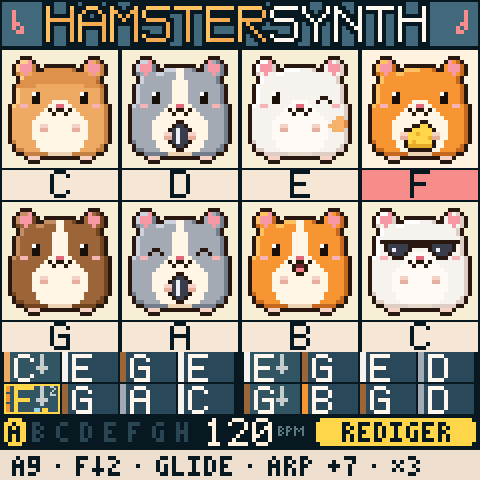
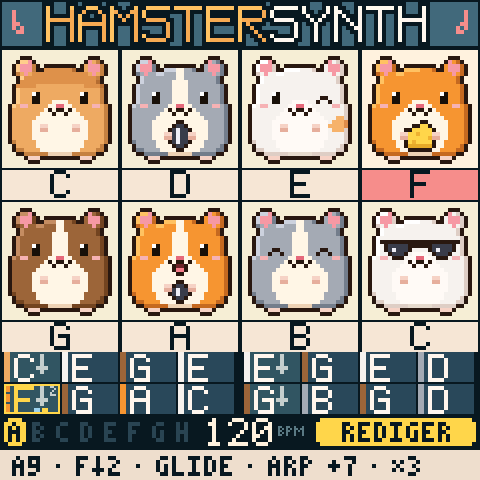
Record where it plays in EDIT too; A and B swap places, the seed goes to the orange one
While it plays, the keys now record into the step they are heard in
(the nearest), in EDIT as in REC. Before, EDIT while playing changed the
step the editor holds, which is right when stopped but not over a
running pattern. Stopped, EDIT is as it was. The bottom line says
"SPILL MED" while it plays. A new host test (tests/scripts/ham/
editplay.txt): EDIT, PLAY, two hamsters by hand, and the next round plays
them where they were heard, with the editor's step left alone.

The hamsters: A is now the orange one with its tongue out, holding the
sunflower seed (shorter, under its tongue), and B the grey one smiling
with its eyes shut, empty-handed. Two grey hamsters with seeds, alike,
were one too many. The step colours follow; the voices stay with their
notes (A and B sound as before). Screens, the sprite sheet, the icon and
the link preview made anew.

Claude-Session: https://claude.ai/code/session_01MBzS5fpf3Tqj1GwuaURyLm

Changed region(s): [[0.25, 0.4375, 0.75, 0.6562], [0.625, 0.7812, 0.6562, 0.875], [0.25, 0.7812, 0.2812, 0.875]]

diff --git a/firmware/gen/ham_art.h b/firmware/gen/ham_art.h
@@ -18,12 +18,12 @@ static const uint8_t HAM_SPR[8][HAM_W * HAM_H] = {       /* 255: clear */
     {255,255,255,0,0,0,255,255,255,255,255,255,255,255,255,255,255,255,255,255,0,0,0,255,255,255,255,255,0,7,7,2,0,255,255,255,255,255,255,255,255,255,255,255,255,0,2,20,21,0,255,255,255,0,7,2,2,2,21,0,255,0,0,0,0,0,0,0,0,255,0,20,2,2,2,21,0,255,255,0,7,2,2,2,21,0,0,7,7,7,7,20,20,20,21,0,0,20,2,2,2,21,0,255,255,0,21,20,2,20,20,7,7,20,20,20,20,20,20,20,20,20,20,20,20,2,20,21,0,255,255,255,0,7,20,20,20,20,20,20,20,20,20,20,20,20,20,20,20,20,20,20,21,0,255,255,255,255,0,7,20,20,20,20,20,20,20,20,20,20,20,20,20,20,20,20,20,20,21,0,255,255,255,0,7,20,20,20,20,20,20,20,20,20,20,20,20,20,20,20,20,20,20,20,20,21,0,255,255,0,7,20,20,20,20,20,20,20,20,20,20,20,20,20,20,20,20,20,20,20,20,21,0,255,255,0,7,20,20,20,7,8,20,20,20,20,20,20,20,20,20,20,20,20,20,20,20,21,0,255,255,0,7,20,20,20,8,8,20,20,20,20,20,20,20,20,20,20,0,0,20,20,20,21,0,255,255,0,7,20,20,20,8,8,20,20,20,22,22,22,22,20,20,0,20,20,0,20,20,21,0,255,0,7,20,10,10,20,20,20,20,20,22,22,11,11,22,22,20,20,20,20,20,10,10,20,21,0,0,20,20,20,20,20,20,20,20,22,0,22,0,0,22,0,22,20,20,20,20,20,20,20,21,0,0,20,20,20,20,20,20,20,22,22,22,0,22,22,0,22,22,22,20,20,20,20,20,20,21,0,0,20,20,20,20,20,20,22,22,22,22,22,22,22,22,22,22,22,22,20,20,20,23,23,21,0,0,20,20,20,20,20,22,22,22,22,22,22,22,22,22,22,22,22,22,22,20,23,23,23,24,0,0,20,20,20,20,20,22,22,12,12,22,22,22,22,22,22,12,12,22,22,23,23,23,23,24,0,0,20,20,20,20,20,22,22,13,13,22,22,22,22,22,22,13,13,22,22,20,23,23,23,21,0,0,20,20,20,20,20,22,22,22,22,22,22,22,22,22,22,22,22,22,22,20,20,20,20,21,0,0,20,20,20,20,20,22,22,22,22,22,22,22,22,22,22,22,22,22,22,20,20,20,20,21,0,0,21,20,20,20,20,20,22,22,22,22,22,22,22,22,22,22,22,22,20,20,20,20,20,21,0,255,0,20,20,20,20,20,22,22,22,22,22,22,22,22,22,22,22,22,20,20,20,20,21,0,255,255,0,21,21,20,20,20,20,22,22,22,22,22,22,22,22,22,22,20,20,20,20,21,21,0,255,255,255,0,0,21,21,21,21,21,21,25,25,25,25,25,25,21,21,21,21,21,21,0,0,255,255,255,255,255,255,0,12,12,12,0,0,0,0,0,0,0,0,0,0,12,12,12,0,255,255,255,255,255,255,255,255,255,0,0,0,255,255,255,255,255,255,255,255,255,255,0,0,0,255,255,255,255,255},
     {255,255,255,0,0,0,255,255,255,255,255,255,255,255,255,255,255,255,255,255,0,0,0,255,255,255,255,255,0,26,26,2,0,255,255,255,255,255,255,255,255,255,255,255,255,0,2,27,28,0,255,255,255,0,26,2,2,2,28,0,255,0,0,0,0,0,0,0,0,255,0,27,2,2,2,28,0,255,255,0,26,2,2,2,28,0,0,26,26,26,26,27,27,27,28,0,0,27,2,2,2,28,0,255,255,0,28,27,2,27,27,26,26,27,27,27,27,27,27,27,27,27,27,27,27,2,27,28,0,255,255,255,0,26,27,27,27,27,27,27,27,27,27,27,27,27,27,27,27,27,27,27,28,0,255,255,255,255,0,26,27,27,27,27,27,27,27,27,27,27,27,27,27,27,27,27,27,27,28,0,255,255,255,0,26,27,27,27,27,27,27,27,27,27,27,27,27,27,27,27,27,27,27,27,27,28,0,255,255,0,26,27,27,27,27,27,27,27,27,27,27,27,27,27,27,27,27,27,27,27,27,28,0,255,255,0,26,27,27,27,7,8,27,27,27,27,27,27,27,27,27,27,7,8,27,27,27,28,0,255,255,0,26,27,27,27,8,8,27,27,27,27,27,27,27,27,27,27,8,8,27,27,27,28,0,255,255,0,26,27,27,27,8,8,27,27,27,9,9,9,9,27,27,27,8,8,27,27,27,28,0,255,0,26,27,10,10,27,27,27,27,27,9,9,11,11,9,9,27,27,27,27,27,10,10,27,28,0,0,27,27,27,27,27,27,27,27,9,0,9,0,0,9,0,9,27,27,27,27,27,27,27,28,0,0,27,27,27,27,27,27,27,9,9,9,0,9,9,0,9,9,9,27,27,27,27,27,27,28,0,0,27,27,27,27,27,27,9,9,9,9,9,9,9,9,9,9,9,9,27,27,27,27,27,28,0,0,27,27,27,27,27,9,9,9,9,9,9,9,0,0,9,9,9,9,9,27,27,27,27,28,0,0,27,27,27,27,27,9,9,9,9,9,0,0,29,29,0,9,9,9,9,27,27,27,27,28,0,0,27,27,27,27,27,9,9,9,0,0,29,29,29,29,29,0,9,9,9,27,27,27,27,28,0,0,27,27,27,27,27,9,9,12,12,29,29,30,29,29,29,12,12,9,9,27,27,27,27,28,0,0,27,27,27,27,27,9,9,13,13,29,29,29,29,29,30,13,13,9,9,27,27,27,27,28,0,0,28,27,27,27,27,27,9,9,0,29,30,29,29,29,29,0,9,9,27,27,27,27,27,28,0,255,0,27,27,27,27,27,9,9,0,31,31,31,31,31,31,0,9,9,27,27,27,27,28,0,255,255,0,28,28,27,27,27,27,9,9,0,0,0,0,0,0,9,9,27,27,27,27,28,28,0,255,255,255,0,0,28,28,28,28,28,28,14,14,14,14,14,14,28,28,28,28,28,28,0,0,255,255,255,255,255,255,0,12,12,12,0,0,0,0,0,0,0,0,0,0,12,12,12,0,255,255,255,255,255,255,255,255,255,0,0,0,255,255,255,255,255,255,255,255,255,255,0,0,0,255,255,255,255,255},
     {255,255,255,0,0,0,255,255,255,255,255,255,255,255,255,255,255,255,255,255,0,0,0,255,255,255,255,255,0,32,32,2,0,255,255,255,255,255,255,255,255,255,255,255,255,0,2,33,34,0,255,255,255,0,32,2,2,2,34,0,255,0,0,0,0,0,0,0,0,255,0,33,2,2,2,34,0,255,255,0,32,2,2,2,34,0,0,32,32,32,9,9,33,33,34,0,0,33,2,2,2,34,0,255,255,0,34,33,2,33,33,32,32,33,33,33,9,9,33,33,33,33,33,33,33,2,33,34,0,255,255,255,0,32,33,33,33,33,33,33,33,33,9,9,33,33,33,33,33,33,33,33,34,0,255,255,255,255,0,32,33,33,33,33,33,33,33,9,9,9,9,33,33,33,33,33,33,33,34,0,255,255,255,0,32,33,33,33,33,33,33,33,33,9,9,9,9,33,33,33,33,33,33,33,33,34,0,255,255,0,32,33,33,33,33,33,33,33,33,9,9,9,9,33,33,33,33,33,33,33,33,34,0,255,255,0,32,33,33,33,7,8,33,33,33,9,9,9,9,33,33,33,7,8,33,33,33,34,0,255,255,0,32,33,33,33,8,8,33,33,33,9,9,9,9,33,33,33,8,8,33,33,33,34,0,255,255,0,32,33,33,33,8,8,33,33,33,9,9,9,9,33,33,33,8,8,33,33,33,34,0,255,0,32,33,10,10,33,33,33,33,33,9,9,11,11,9,9,33,33,33,33,33,10,10,33,34,0,0,33,33,33,33,33,33,33,33,9,0,9,0,0,9,0,9,33,33,33,33,33,33,33,34,0,0,33,33,33,33,33,33,33,9,9,9,0,9,9,0,9,9,9,33,33,33,33,33,33,34,0,0,33,33,33,33,33,33,9,9,9,9,9,9,9,9,9,9,9,9,33,33,33,33,33,34,0,0,33,33,33,33,33,9,9,9,9,9,9,9,9,9,9,9,9,9,9,33,33,33,33,34,0,0,33,33,33,33,33,9,9,12,12,9,9,9,9,9,9,12,12,9,9,33,33,33,33,34,0,0,33,33,33,33,33,9,9,13,13,9,9,9,9,9,9,13,13,9,9,33,33,33,33,34,0,0,33,33,33,33,33,9,9,9,9,9,9,9,9,9,9,9,9,9,9,33,33,33,33,34,0,0,33,33,33,33,33,9,9,9,9,9,9,9,9,9,9,9,9,9,9,33,33,33,33,34,0,0,34,33,33,33,33,33,9,9,9,9,9,9,9,9,9,9,9,9,33,33,33,33,33,34,0,255,0,33,33,33,33,33,9,9,9,9,9,9,9,9,9,9,9,9,33,33,33,33,34,0,255,255,0,34,34,33,33,33,33,9,9,9,9,9,9,9,9,9,9,33,33,33,33,34,34,0,255,255,255,0,0,34,34,34,34,34,34,14,14,14,14,14,14,34,34,34,34,34,34,0,0,255,255,255,255,255,255,0,12,12,12,0,0,0,0,0,0,0,0,0,0,12,12,12,0,255,255,255,255,255,255,255,255,255,0,0,0,255,255,255,255,255,255,255,255,255,255,0,0,0,255,255,255,255,255},
-    {255,255,255,0,0,0,255,255,255,255,255,255,255,255,255,255,255,255,255,255,0,0,0,255,255,255,255,255,0,15,15,2,0,255,255,255,255,255,255,255,255,255,255,255,255,0,2,16,17,0,255,255,255,0,15,2,2,2,17,0,255,0,0,0,0,0,0,0,0,255,0,16,2,2,2,17,0,255,255,0,15,2,2,2,17,0,0,15,15,15,9,9,16,16,17,0,0,16,2,2,2,17,0,255,255,0,17,16,2,16,16,15,15,16,16,16,9,9,16,16,16,16,16,16,16,2,16,17,0,255,255,255,0,15,16,16,16,16,16,16,16,16,9,9,16,16,16,16,16,16,16,16,17,0,255,255,255,255,0,15,16,16,16,16,16,16,16,9,9,9,9,16,16,16,16,16,16,16,17,0,255,255,255,0,15,16,16,16,16,16,16,16,16,9,9,9,9,16,16,16,16,16,16,16,16,17,0,255,255,0,15,16,16,16,16,16,16,16,16,9,9,9,9,16,16,16,16,16,16,16,16,17,0,255,255,0,15,16,16,16,16,16,16,16,16,9,9,9,9,16,16,16,16,16,16,16,16,17,0,255,255,0,15,16,16,16,0,0,16,16,16,9,9,9,9,16,16,16,0,0,16,16,16,17,0,255,255,0,15,16,16,0,16,16,0,16,16,9,9,9,9,16,16,0,16,16,0,16,16,17,0,255,0,15,16,10,10,16,16,16,16,16,9,9,11,11,9,9,16,16,16,16,16,10,10,16,17,0,0,16,16,16,16,16,16,16,16,9,0,9,0,0,9,0,9,16,16,16,16,16,16,16,17,0,0,16,16,16,16,16,16,16,9,9,9,0,9,9,0,9,9,9,16,16,16,16,16,16,17,0,0,16,16,16,16,16,16,9,9,9,9,9,9,9,9,9,9,9,9,16,16,16,16,16,17,0,0,16,16,16,16,16,9,9,9,9,9,9,0,0,9,9,9,9,9,9,16,16,16,16,17,0,0,16,16,16,16,16,9,9,9,9,9,0,18,18,0,9,9,9,9,9,16,16,16,16,17,0,0,16,16,16,16,16,9,9,9,9,0,18,19,18,18,0,9,9,9,9,16,16,16,16,17,0,0,16,16,16,16,16,9,9,9,12,12,18,19,18,18,12,12,9,9,9,16,16,16,16,17,0,0,16,16,16,16,16,9,9,9,13,13,18,19,18,18,13,13,9,9,9,16,16,16,16,17,0,0,17,16,16,16,16,16,9,9,9,0,18,19,18,18,0,9,9,9,16,16,16,16,16,17,0,255,0,16,16,16,16,16,9,9,9,9,0,18,18,0,9,9,9,9,16,16,16,16,17,0,255,255,0,17,17,16,16,16,16,9,9,9,9,0,0,9,9,9,9,16,16,16,16,17,17,0,255,255,255,0,0,17,17,17,17,17,17,14,14,14,14,14,14,17,17,17,17,17,17,0,0,255,255,255,255,255,255,0,12,12,12,0,0,0,0,0,0,0,0,0,0,12,12,12,0,255,255,255,255,255,255,255,255,255,0,0,0,255,255,255,255,255,255,255,255,255,255,0,0,0,255,255,255,255,255},
-    {255,255,255,0,0,0,255,255,255,255,255,255,255,255,255,255,255,255,255,255,0,0,0,255,255,255,255,255,0,26,26,2,0,255,255,255,255,255,255,255,255,255,255,255,255,0,2,27,28,0,255,255,255,0,26,2,2,2,28,0,255,0,0,0,0,0,0,0,0,255,0,27,2,2,2,28,0,255,255,0,26,2,2,2,28,0,0,26,26,26,9,9,27,27,28,0,0,27,2,2,2,28,0,255,255,0,28,27,2,27,27,26,26,27,27,27,9,9,27,27,27,27,27,27,27,2,27,28,0,255,255,255,0,26,27,27,27,27,27,27,27,27,9,9,27,27,27,27,27,27,27,27,28,0,255,255,255,255,0,26,27,27,27,27,27,27,27,9,9,9,9,27,27,27,27,27,27,27,28,0,255,255,255,0,26,27,27,27,27,27,27,27,27,9,9,9,9,27,27,27,27,27,27,27,27,28,0,255,255,0,26,27,27,27,27,27,27,27,27,9,9,9,9,27,27,27,27,27,27,27,27,28,0,255,255,0,26,27,27,27,7,8,27,27,27,9,9,9,9,27,27,27,7,8,27,27,27,28,0,255,255,0,26,27,27,27,8,8,27,27,27,9,9,9,9,27,27,27,8,8,27,27,27,28,0,255,255,0,26,27,27,27,8,8,27,27,27,9,9,9,9,27,27,27,8,8,27,27,27,28,0,255,0,26,27,10,10,27,27,27,27,27,9,9,11,11,9,9,27,27,27,27,27,10,10,27,28,0,0,27,27,27,27,27,27,27,27,9,0,9,0,0,9,0,9,27,27,27,27,27,27,27,28,0,0,27,27,27,27,27,27,27,9,9,9,0,35,35,0,9,9,9,27,27,27,27,27,27,28,0,0,27,27,27,27,27,27,9,9,9,9,0,36,36,0,9,9,9,9,27,27,27,27,27,28,0,0,27,27,27,27,27,9,9,9,9,9,9,0,0,9,9,9,9,9,9,27,27,27,27,28,0,0,27,27,27,27,27,9,9,12,12,9,9,9,9,9,9,12,12,9,9,27,27,27,27,28,0,0,27,27,27,27,27,9,9,13,13,9,9,9,9,9,9,13,13,9,9,27,27,27,27,28,0,0,27,27,27,27,27,9,9,9,9,9,9,9,9,9,9,9,9,9,9,27,27,27,27,28,0,0,27,27,27,27,27,9,9,9,9,9,9,9,9,9,9,9,9,9,9,27,27,27,27,28,0,0,28,27,27,27,27,27,9,9,9,9,9,9,9,9,9,9,9,9,27,27,27,27,27,28,0,255,0,27,27,27,27,27,9,9,9,9,9,9,9,9,9,9,9,9,27,27,27,27,28,0,255,255,0,28,28,27,27,27,27,9,9,9,9,9,9,9,9,9,9,27,27,27,27,28,28,0,255,255,255,0,0,28,28,28,28,28,28,14,14,14,14,14,14,28,28,28,28,28,28,0,0,255,255,255,255,255,255,0,12,12,12,0,0,0,0,0,0,0,0,0,0,12,12,12,0,255,255,255,255,255,255,255,255,255,0,0,0,255,255,255,255,255,255,255,255,255,255,0,0,0,255,255,255,255,255},
+    {255,255,255,0,0,0,255,255,255,255,255,255,255,255,255,255,255,255,255,255,0,0,0,255,255,255,255,255,0,26,26,2,0,255,255,255,255,255,255,255,255,255,255,255,255,0,2,27,28,0,255,255,255,0,26,2,2,2,28,0,255,0,0,0,0,0,0,0,0,255,0,27,2,2,2,28,0,255,255,0,26,2,2,2,28,0,0,26,26,26,9,9,27,27,28,0,0,27,2,2,2,28,0,255,255,0,28,27,2,27,27,26,26,27,27,27,9,9,27,27,27,27,27,27,27,2,27,28,0,255,255,255,0,26,27,27,27,27,27,27,27,27,9,9,27,27,27,27,27,27,27,27,28,0,255,255,255,255,0,26,27,27,27,27,27,27,27,9,9,9,9,27,27,27,27,27,27,27,28,0,255,255,255,0,26,27,27,27,27,27,27,27,27,9,9,9,9,27,27,27,27,27,27,27,27,28,0,255,255,0,26,27,27,27,27,27,27,27,27,9,9,9,9,27,27,27,27,27,27,27,27,28,0,255,255,0,26,27,27,27,7,8,27,27,27,9,9,9,9,27,27,27,7,8,27,27,27,28,0,255,255,0,26,27,27,27,8,8,27,27,27,9,9,9,9,27,27,27,8,8,27,27,27,28,0,255,255,0,26,27,27,27,8,8,27,27,27,9,9,9,9,27,27,27,8,8,27,27,27,28,0,255,0,26,27,10,10,27,27,27,27,27,9,9,11,11,9,9,27,27,27,27,27,10,10,27,28,0,0,27,27,27,27,27,27,27,27,9,0,9,0,0,9,0,9,27,27,27,27,27,27,27,28,0,0,27,27,27,27,27,27,27,9,9,9,0,35,35,0,9,9,9,27,27,27,27,27,27,28,0,0,27,27,27,27,27,27,9,9,9,9,0,36,36,0,9,9,9,9,27,27,27,27,27,28,0,0,27,27,27,27,27,9,9,9,9,9,9,0,0,9,9,9,9,9,9,27,27,27,27,28,0,0,27,27,27,27,27,9,9,9,9,9,9,9,9,9,9,9,9,9,9,27,27,27,27,28,0,0,27,27,27,27,27,9,9,9,9,9,9,0,0,9,9,9,9,9,9,27,27,27,27,28,0,0,27,27,27,27,27,9,9,9,12,12,0,18,18,0,12,12,9,9,9,27,27,27,27,28,0,0,27,27,27,27,27,9,9,9,13,13,18,19,18,18,13,13,9,9,9,27,27,27,27,28,0,0,28,27,27,27,27,27,9,9,9,0,18,19,18,18,0,9,9,9,27,27,27,27,27,28,0,255,0,27,27,27,27,27,9,9,9,9,0,18,18,0,9,9,9,9,27,27,27,27,28,0,255,255,0,28,28,27,27,27,27,9,9,9,9,0,0,9,9,9,9,27,27,27,27,28,28,0,255,255,255,0,0,28,28,28,28,28,28,14,14,14,14,14,14,28,28,28,28,28,28,0,0,255,255,255,255,255,255,0,12,12,12,0,0,0,0,0,0,0,0,0,0,12,12,12,0,255,255,255,255,255,255,255,255,255,0,0,0,255,255,255,255,255,255,255,255,255,255,0,0,0,255,255,255,255,255},
+    {255,255,255,0,0,0,255,255,255,255,255,255,255,255,255,255,255,255,255,255,0,0,0,255,255,255,255,255,0,15,15,2,0,255,255,255,255,255,255,255,255,255,255,255,255,0,2,16,17,0,255,255,255,0,15,2,2,2,17,0,255,0,0,0,0,0,0,0,0,255,0,16,2,2,2,17,0,255,255,0,15,2,2,2,17,0,0,15,15,15,9,9,16,16,17,0,0,16,2,2,2,17,0,255,255,0,17,16,2,16,16,15,15,16,16,16,9,9,16,16,16,16,16,16,16,2,16,17,0,255,255,255,0,15,16,16,16,16,16,16,16,16,9,9,16,16,16,16,16,16,16,16,17,0,255,255,255,255,0,15,16,16,16,16,16,16,16,9,9,9,9,16,16,16,16,16,16,16,17,0,255,255,255,0,15,16,16,16,16,16,16,16,16,9,9,9,9,16,16,16,16,16,16,16,16,17,0,255,255,0,15,16,16,16,16,16,16,16,16,9,9,9,9,16,16,16,16,16,16,16,16,17,0,255,255,0,15,16,16,16,16,16,16,16,16,9,9,9,9,16,16,16,16,16,16,16,16,17,0,255,255,0,15,16,16,16,0,0,16,16,16,9,9,9,9,16,16,16,0,0,16,16,16,17,0,255,255,0,15,16,16,0,16,16,0,16,16,9,9,9,9,16,16,0,16,16,0,16,16,17,0,255,0,15,16,10,10,16,16,16,16,16,9,9,11,11,9,9,16,16,16,16,16,10,10,16,17,0,0,16,16,16,16,16,16,16,16,9,0,9,0,0,9,0,9,16,16,16,16,16,16,16,17,0,0,16,16,16,16,16,16,16,9,9,9,0,9,9,0,9,9,9,16,16,16,16,16,16,17,0,0,16,16,16,16,16,16,9,9,9,9,9,9,9,9,9,9,9,9,16,16,16,16,16,17,0,0,16,16,16,16,16,9,9,9,9,9,9,9,9,9,9,9,9,9,9,16,16,16,16,17,0,0,16,16,16,16,16,9,9,12,12,9,9,9,9,9,9,12,12,9,9,16,16,16,16,17,0,0,16,16,16,16,16,9,9,13,13,9,9,9,9,9,9,13,13,9,9,16,16,16,16,17,0,0,16,16,16,16,16,9,9,9,9,9,9,9,9,9,9,9,9,9,9,16,16,16,16,17,0,0,16,16,16,16,16,9,9,9,9,9,9,9,9,9,9,9,9,9,9,16,16,16,16,17,0,0,17,16,16,16,16,16,9,9,9,9,9,9,9,9,9,9,9,9,16,16,16,16,16,17,0,255,0,16,16,16,16,16,9,9,9,9,9,9,9,9,9,9,9,9,16,16,16,16,17,0,255,255,0,17,17,16,16,16,16,9,9,9,9,9,9,9,9,9,9,16,16,16,16,17,17,0,255,255,255,0,0,17,17,17,17,17,17,14,14,14,14,14,14,17,17,17,17,17,17,0,0,255,255,255,255,255,255,0,12,12,12,0,0,0,0,0,0,0,0,0,0,12,12,12,0,255,255,255,255,255,255,255,255,255,0,0,0,255,255,255,255,255,255,255,255,255,255,0,0,0,255,255,255,255,255},
     {255,255,255,0,0,0,255,255,255,255,255,255,255,255,255,255,255,255,255,255,0,0,0,255,255,255,255,255,0,7,7,2,0,255,255,255,255,255,255,255,255,255,255,255,255,0,2,20,21,0,255,255,255,0,7,2,2,2,21,0,255,0,0,0,0,0,0,0,0,255,0,20,2,2,2,21,0,255,255,0,7,2,2,2,21,0,0,7,7,7,7,20,20,20,21,0,0,20,2,2,2,21,0,255,255,0,21,20,2,20,20,7,7,20,20,20,20,20,20,20,20,20,20,20,20,2,20,21,0,255,255,255,0,7,20,20,20,20,20,20,20,20,20,20,20,20,20,20,20,20,20,20,21,0,255,255,255,255,0,7,20,20,20,20,20,20,20,20,20,20,20,20,20,20,20,20,20,20,21,0,255,255,255,0,7,20,20,20,20,20,20,20,20,20,20,20,20,20,20,20,20,20,20,20,20,21,0,255,255,0,7,0,0,0,0,0,0,0,0,0,0,0,0,0,0,0,0,0,0,0,0,21,0,255,255,0,7,20,0,18,18,18,18,18,0,0,0,0,0,0,18,18,18,18,18,0,20,21,0,255,255,0,7,20,0,18,19,18,18,18,0,20,20,20,20,0,18,19,18,18,18,0,20,21,0,255,255,0,7,20,20,0,18,18,18,0,20,22,22,22,22,20,0,18,18,18,0,20,20,21,0,255,0,7,20,10,10,20,0,0,0,20,22,22,11,11,22,22,20,0,0,0,20,10,10,20,21,0,0,20,20,20,20,20,20,20,20,22,0,22,0,0,22,0,22,20,20,20,20,20,20,20,21,0,0,20,20,20,20,20,20,20,22,22,22,0,22,22,0,22,22,22,20,20,20,20,20,20,21,0,0,20,20,20,20,20,20,22,22,22,22,22,22,22,22,22,22,22,22,20,20,20,20,20,21,0,0,20,20,20,20,20,22,22,22,22,22,22,22,22,22,22,22,22,22,22,20,20,20,20,21,0,0,20,20,20,20,20,22,22,12,12,22,22,22,22,22,22,12,12,22,22,20,20,20,20,21,0,0,20,20,20,20,20,22,22,13,13,22,22,22,22,22,22,13,13,22,22,20,20,20,20,21,0,0,20,20,20,20,20,22,22,22,22,22,22,22,22,22,22,22,22,22,22,20,20,20,20,21,0,0,20,20,20,20,20,22,22,22,22,22,22,22,22,22,22,22,22,22,22,20,20,20,20,21,0,0,21,20,20,20,20,20,22,22,22,22,22,22,22,22,22,22,22,22,20,20,20,20,20,21,0,255,0,20,20,20,20,20,22,22,22,22,22,22,22,22,22,22,22,22,20,20,20,20,21,0,255,255,0,21,21,20,20,20,20,22,22,22,22,22,22,22,22,22,22,20,20,20,20,21,21,0,255,255,255,0,0,21,21,21,21,21,21,25,25,25,25,25,25,21,21,21,21,21,21,0,0,255,255,255,255,255,255,0,12,12,12,0,0,0,0,0,0,0,0,0,0,12,12,12,0,255,255,255,255,255,255,255,255,255,0,0,0,255,255,255,255,255,255,255,255,255,255,0,0,0,255,255,255,255,255},
 };
 static const uint16_t HAM_TINT[8] = {                /* each hamster's fur: its steps' stripe */
-    0xED4C, 0xA556, 0xF79D, 0xF4A6, 0x9B27, 0xA556, 0xF4A6, 0xF79D,
+    0xED4C, 0xA556, 0xF79D, 0xF4A6, 0x9B27, 0xF4A6, 0xA556, 0xF79D,
 };
 #define DRUM_W 56u                               /* the drummer, its pixels (2 x 2) */
 #define DRUM_H 45u

diff --git a/firmware/src/hamster.c b/firmware/src/hamster.c
@@ -10,7 +10,8 @@
  *   PLAY         play / stop (the pattern, or the song with SONG on)
  *   REC          step recording: a hamster is written to the step and the step moves on; SEL writes a rest.
  *                While it plays (a pattern or the song): into the step it is heard in (the nearest), over and over
- *   EDIT         the editor: a key changes the step's note and stays; SELECT walks the steps;
+ *   EDIT         the editor: a key changes the step's note and stays (stopped; while it plays it records, as REC);
+ *                SELECT walks the steps;
  *                KNOB 1 glide, KNOB 2 arpeggio (+7, +12), KNOB 3 accent, KNOB 4 ratchet (x1..x4); OCT- OCT+ its octave;
  *                ARP the arpeggio too; SEL deletes the step; SAVE copies it to the next; LFO a random pattern
  *   ENV          undo (12 deep)
@@ -365,7 +366,7 @@ static void press(uint32_t key, int32_t oct, uint32_t vel)
 {
     oct = oct < -3 ? -3 : oct > 1 ? 1 : oct;
     sel_key = key;
-    if (page == PG_HOME && edit_on) {           /* the editor: the step's note changes, its effects stay */
+    if (page == PG_HOME && edit_on && !playing) {   /* the editor, stopped: the step's note changes, its effects stay */
         uint32_t s = hq.pat[active][cur_step];
         undo_push();
         hq.pat[active][cur_step] = (uint16_t)((s & ST_ON) ? (s & ~0x3Fu) | key | (uint32_t)(oct + 3) << 3 : ST_MAKE(key, oct));
@@ -376,7 +377,7 @@ static void press(uint32_t key, int32_t oct, uint32_t vel)
         return;
     }
     sing(key, oct, vel);
-    if (page == PG_HOME && rec_on && playing) { /* recorded while it plays: where it was heard */
+    if (page == PG_HOME && (rec_on || edit_on) && playing) {   /* recorded while it plays (REC or EDIT): where it was heard */
         uint32_t p, step = live_step(&p);
         undo_push_p(p);
         hq.pat[p][step] = ST_MAKE(key, oct);
@@ -482,6 +483,8 @@ static void hint(char *t)
         if (!drums_on) sb_s(" · AV (HOLD SEQ)");
     } else if (page == PG_SONG) {
         sb_s(song_playing ? "SPILLER SONGEN" : song_mode ? "PLAY SPILLER SONGEN" : "GLO SLÅR SONG PÅ");
+    } else if (edit_on && playing) {            /* the editor while it plays: the keys record where it plays */
+        sb_s("SPILL MED · KNOTTENE: "); sb_step(cur_step);
     } else if (edit_on) {                       /* the step the editor holds, in words */
         sb_step_words(cur_step);
     } else if (rec_on) {

diff --git a/tools/ham_sprites.py b/tools/ham_sprites.py
@@ -72,8 +72,8 @@ KINDS = [
     {"fur": "white", "wink": True, "spot": True},
     {"fur": "orange", "cheese": True},
     {"fur": "brown", "blaze": True},
-    {"fur": "grey", "blaze": True, "seed": True, "happy": True},
-    {"fur": "orange", "blaze": True, "tongue": True},
+    {"fur": "orange", "blaze": True, "tongue": True, "seed": True},
+    {"fur": "grey", "blaze": True, "happy": True},
     {"fur": "white", "shades": True},
 ]
 
@@ -152,7 +152,14 @@ def face(g, k):
                   "..OZZZO......OZZZO..",
                   "...OOO........OOO..."], 3, 8, {"O": "O", "Z": "Z", "L": "L"})
     held = k.get("seed") or k.get("cheese")
-    if k.get("seed"):                           # a sunflower seed, held up
+    if k.get("seed") and k.get("tongue"):       # a shorter seed, held lower: under the tongue, not against it
+        stamp(g, ["..OO..",
+                  ".OZZO.",
+                  "OZLZZO",
+                  "OZLZZO",
+                  ".OZZO.",
+                  "..OO.."], 10, 18, {"O": "O", "Z": "Z", "L": "L"})
+    elif k.get("seed"):                         # a sunflower seed, held up
         stamp(g, ["..OO..",
                   ".OZZO.",
                   "OZLZZO",

diff --git a/web/make_og.py b/web/make_og.py
@@ -4,7 +4,7 @@
 tour) and its own hamsters (tools/ham_sprites.py):
 
   docs/screens/ham-logo.png   the logo bar off the screen, 4 x (960 x 96)
-  docs/screens/ham-icon.png   the orange hamster, its mouth open (64 x 64): the page's icon
+  docs/screens/ham-icon.png   the orange hamster, its mouth open, its seed (64 x 64): the page's icon
   web/og.png                  the link preview (1200 x 630): the logo and three screens on the page's paper
 
   python3 web/make_og.py
@@ -26,7 +26,7 @@ def main():
     home = Image.open(S / "ham-home.png").convert("RGB")
     logo = home.crop((0, 0, 480, 48)).resize((960, 96), Image.NEAREST)
     logo.save(S / "ham-logo.png")
-    g = ham_sprites.hamsters()[6]
+    g = ham_sprites.hamsters()[5]
     icon = Image.new("RGBA", (64, 64), (0, 0, 0, 0))
     for y, row in enumerate(g):
         for x, c in enumerate(row):

diff --git a/tools/gen_ham_tables.py b/tools/gen_ham_tables.py
@@ -123,8 +123,8 @@ HVOICE = [
     (1.80, "i", 10.2, 6.0, 8000),       # E  the white one: the squeakiest
     (1.45, "u", 8.2, 3.5, 2600),        # F  the orange one: its mouth full of cheese
     (1.30, "a", 7.4, 2.5, 6000),        # G  the brown one: the deepest
-    (1.60, "e", 9.4, 5.0, 7500),        # A  the grey one, smiling
-    (1.55, "a", 9.0, 4.5, 7500),        # B  the orange one, its mouth open
+    (1.60, "e", 9.4, 5.0, 7500),        # A  the orange one, its mouth open, a seed in its paws
+    (1.55, "a", 9.0, 4.5, 7500),        # B  the grey one, smiling
     (1.40, "o", 6.8, 2.0, 6500),        # C  the one in sunglasses: cool, slow
 ]
 HV_Q = (3.5, 5.0, 6.0)

diff --git a/README.md b/README.md
@@ -60,7 +60,7 @@ Verktøykjeden (JieLi) og SDK-en: [docs/DINGHY_README.md](docs/DINGHY_README.md)
 | **Svarte tangenter** | C#4 D#4 F#4 G#4: kick, snare, hat, clap for hånd. |
 | **PLAY** | Spill / stopp (sekvensen, eller songen når SONG er på). |
 | **REC** | Stegopptak: hamsteren lagres i steget og går videre. **SEL** legger inn pause. Mens det spilles (sekvens eller song): tonen lagres i steget du hører den i, det nærmeste, runde etter runde. |
-| **EDIT** | Rediger: en tangent bytter tonen uten å gå videre. **SELECT** velger steg. |
+| **EDIT** | Rediger: en tangent bytter tonen uten å gå videre (når den står; mens den spiller tar tangentene opp, som REC). **SELECT** velger steg. |
 | **SELECT** | Velg steg (og hør det). |
 | **PRESETS** | Sekvens A–H. Mens den spiller: byttes ved neste runde. |
 | **ALGORITHM** | Tempo, 50–220 BPM. |
@@ -105,8 +105,9 @@ FX (THALL) og GLO (SONG) lyser når de er på.
 ## Figurene
 
 Hamsterne og trommehamsteren er tegnet på nytt som pikselkunst i `tools/ham_sprites.py`, med samme kjennetegn som på
-siden: den gylne, den grå med solsikkefrø, den hvite som blunker, den oransje med ost, den brune, den grå som smiler
-med lukkede øyne, den oransje med tunga ute og den hvite med solbriller. Én blekkfarge for omrisset og lys fra øvre
+siden: den gylne, den grå med solsikkefrø, den hvite som blunker, den oransje med ost, den brune, den oransje med tunga
+ute og et frø, den grå som smiler med lukkede øyne og den hvite med solbriller. (A og B har byttet plass fra siden, og
+den grå ga frøet sitt til den oransje: to like grå hamstere med frø var én for mye.) Én blekkfarge for omrisset og lys fra øvre
 venstre hjørne. Hver figurpiksel er 2×2 skjermpiksler, som logoen og teksten.
 
 ## Skjermen
